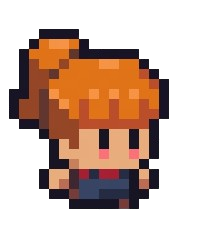
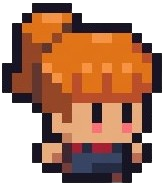
Feat: 회원가입 퍼블리싱

diff --git a/frontend/src/components/Login/Kakao/SignupWithKakao.tsx b/frontend/src/components/Login/Kakao/SignupWithKakao.tsx
@@ -1,5 +1,7 @@
 import { useState } from "react";
 import axios from "axios";
+import basicCharacter from "../../../assets/Login/basicCharacter.png";
+import "./SignupWithKakao.css";
 
 function SignupWithKakao() {
   const [nickname, setNickname] = useState("");
@@ -41,15 +43,19 @@ function SignupWithKakao() {
 
   return (
     <div>
-      <div>캐릭터생성</div>
+      <div className="profile-create">캐릭터생성</div>
       <div>
-        <div>
-          <img src="/assets/Login/basicCharacter.png" alt="기본 캐릭터" />
+        <div className="profile-box">
+          <img className="profile-img" src={basicCharacter} alt="기본 캐릭터" />
         </div>
         <div>
           <form onSubmit={handleSubmit}>
-            <label htmlFor="nickname">닉네임</label>
+            <label htmlFor="nickname" style={{ marginRight: "30px" }}>
+              닉네임
+            </label>
             <input
+              className="font-['Galmuri11']"
+              style={{ width: "400px" }}
               id="nickname"
               placeholder="한글, 숫자, 영문 입력 가능 (한글 기준 최대 6자)"
               value={nickname}
@@ -58,13 +64,15 @@ function SignupWithKakao() {
             <button type="button" onClick={handleCheckNickname}>
               중복확인
             </button>
-            <div>
+            <div className="font-['Galmuri11']">
               {isNicknameAvailable === true && <p>사용 가능한 닉네임입니다.</p>}
               {isNicknameAvailable === false && (
                 <p>이미 사용 중인 닉네임입니다.</p>
               )}
             </div>
-            <button type="submit">생성</button>
+            <button type="submit" style={{ marginTop: "30px" }}>
+              생성
+            </button>
           </form>
         </div>
       </div>

diff --git a/frontend/src/index.css b/frontend/src/index.css
@@ -74,7 +74,8 @@ body {
   @font-face {
     font-family: "Galmuri11";
     font-style: normal;
-    src: url(./fonts/woff/Galmuri11.woff) format("woff"),
+    src:
+      url(./fonts/woff/Galmuri11.woff) format("woff"),
       url(./fonts/woff/GalmuriMono11.woff) format("woff");
   }
 
@@ -93,19 +94,21 @@ body {
   @font-face {
     font-family: "Galmuri7";
     font-style: normal;
-    src: url(./fonts/woff/Galmuri7.woff) format("woff"),
+    src:
+      url(./fonts/woff/Galmuri7.woff) format("woff"),
       url(./fonts/woff/GalmuriMono7.woff) format("woff");
   }
 
   @font-face {
     font-family: "Galmuri9";
     font-style: normal;
-    src: url(./fonts/woff/Galmuri9.woff) format("woff"),
+    src:
+      url(./fonts/woff/Galmuri9.woff) format("woff"),
       url(./fonts/woff/GalmuriMono9.woff) format("woff");
   }
 
   html {
-    font-family: "Galmuri11";
+    font-family: "DNFBitBitv2";
     font-size: 1rem;
   }
 }

diff --git a/frontend/src/components/Login/Kakao/SignupWithKakao.css b/frontend/src/components/Login/Kakao/SignupWithKakao.css
@@ -1,0 +1,22 @@
+.profile-create {
+  margin-bottom: 30px;
+  color: #36eab5;
+  font-size: 50px;
+}
+
+.profile-box {
+  background-color: blue;
+  display: flex;
+  justify-content: center;
+  align-items: center;
+  border-radius: 50%;
+  margin-bottom: 30px;
+  width: 200px;
+  height: 200px;
+  padding: 20px;
+}
+
+.profile-img {
+  width: 150px;
+  height: 150px;
+}

diff --git a/frontend/prettier.config.js b/frontend/prettier.config.js
@@ -1,0 +1,4 @@
+// prettier.config.js
+module.exports = {
+  plugins: ["prettier-plugin-tailwindcss"],
+};
